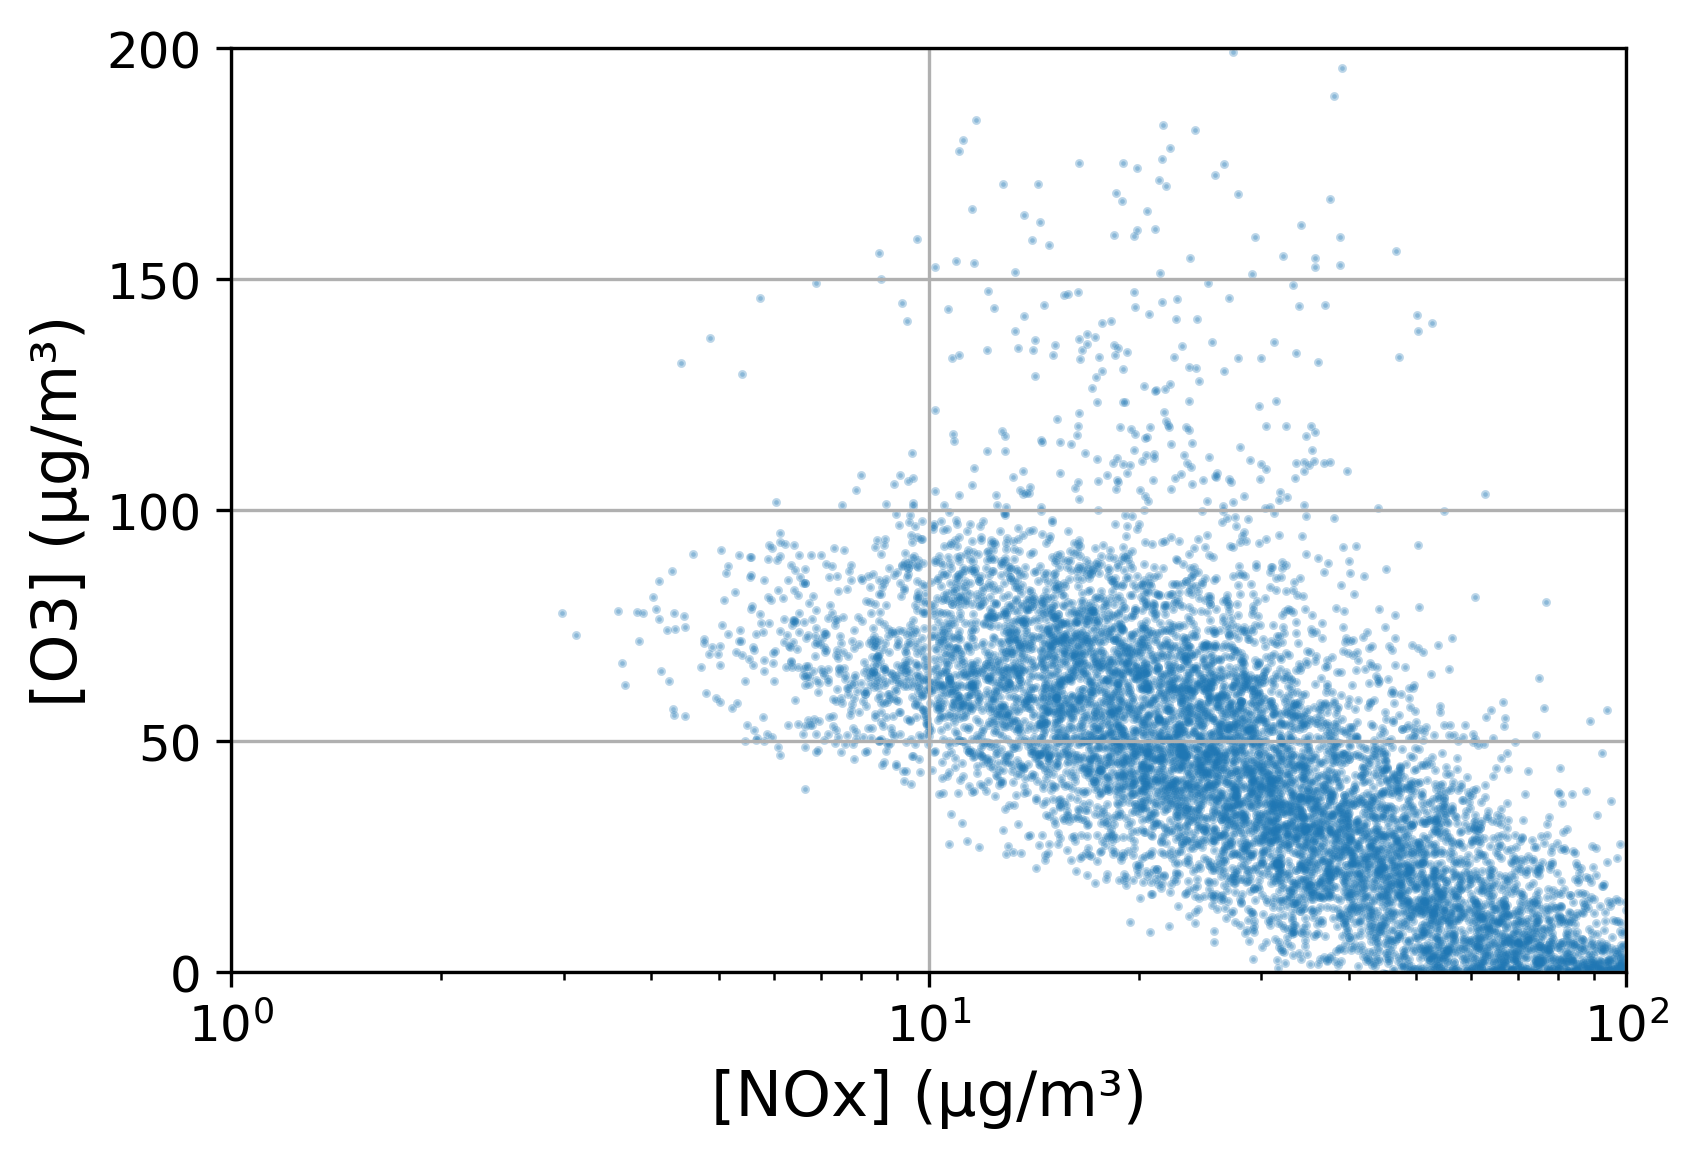
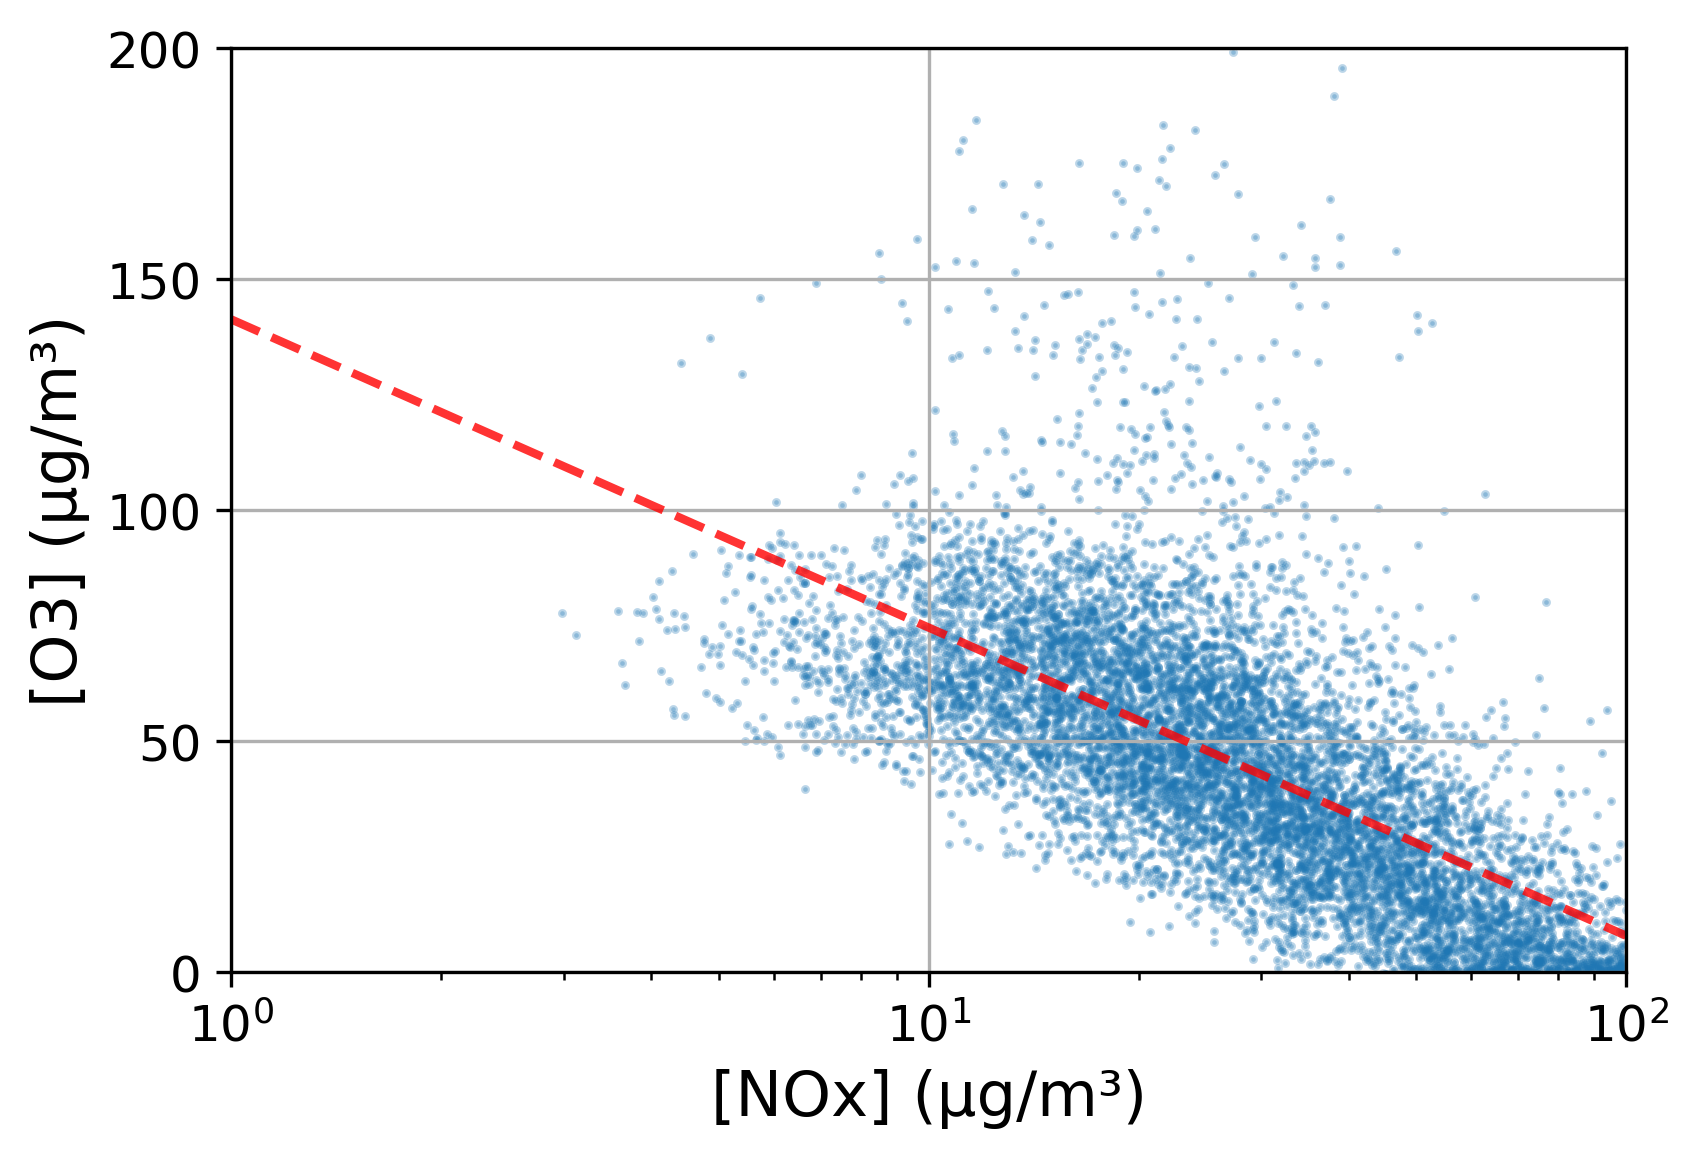
figure formatting

diff --git a/Question3.py b/Question3.py
@@ -153,6 +153,25 @@ for station, data in station_data.items():
     plt.yticks([0, 50, 100, 150, 200])  # Adjust values as needed
     plt.tick_params(axis='both', which='major', labelsize=12)
 
+    # **Fix: Remove problematic values before fitting trendline**
+    valid_indices = data["NOx"] > 0  # Remove zero or negative NOx values
+    x = np.log10(data["NOx"][valid_indices])  # Log-transform NOx safely
+    y = data["O3"][valid_indices]  # Keep corresponding O3 values
+
+    # Remove NaN or Inf values
+    mask = np.isfinite(x) & np.isfinite(y)
+    x_clean = x[mask]
+    y_clean = y[mask]
+
+    # Fit and plot trendline only if enough data points exist
+    if len(x_clean) > 1:
+        coeffs1 = np.polyfit(x_clean, y_clean, 1)
+        x_trend = np.linspace(np.log10(1), np.log10(100), 100)
+        y_trend1 = np.polyval(coeffs1, x_trend)
+        plt.plot(10**x_trend, y_trend1, linestyle="dashed", color="red", alpha=0.8, linewidth=2, label="Linear Trend")
+
+
+
     # Save each figure separately
     plt.savefig(f"{station}_scatter_plot.png", dpi=300, bbox_inches="tight")
     plt.close()
